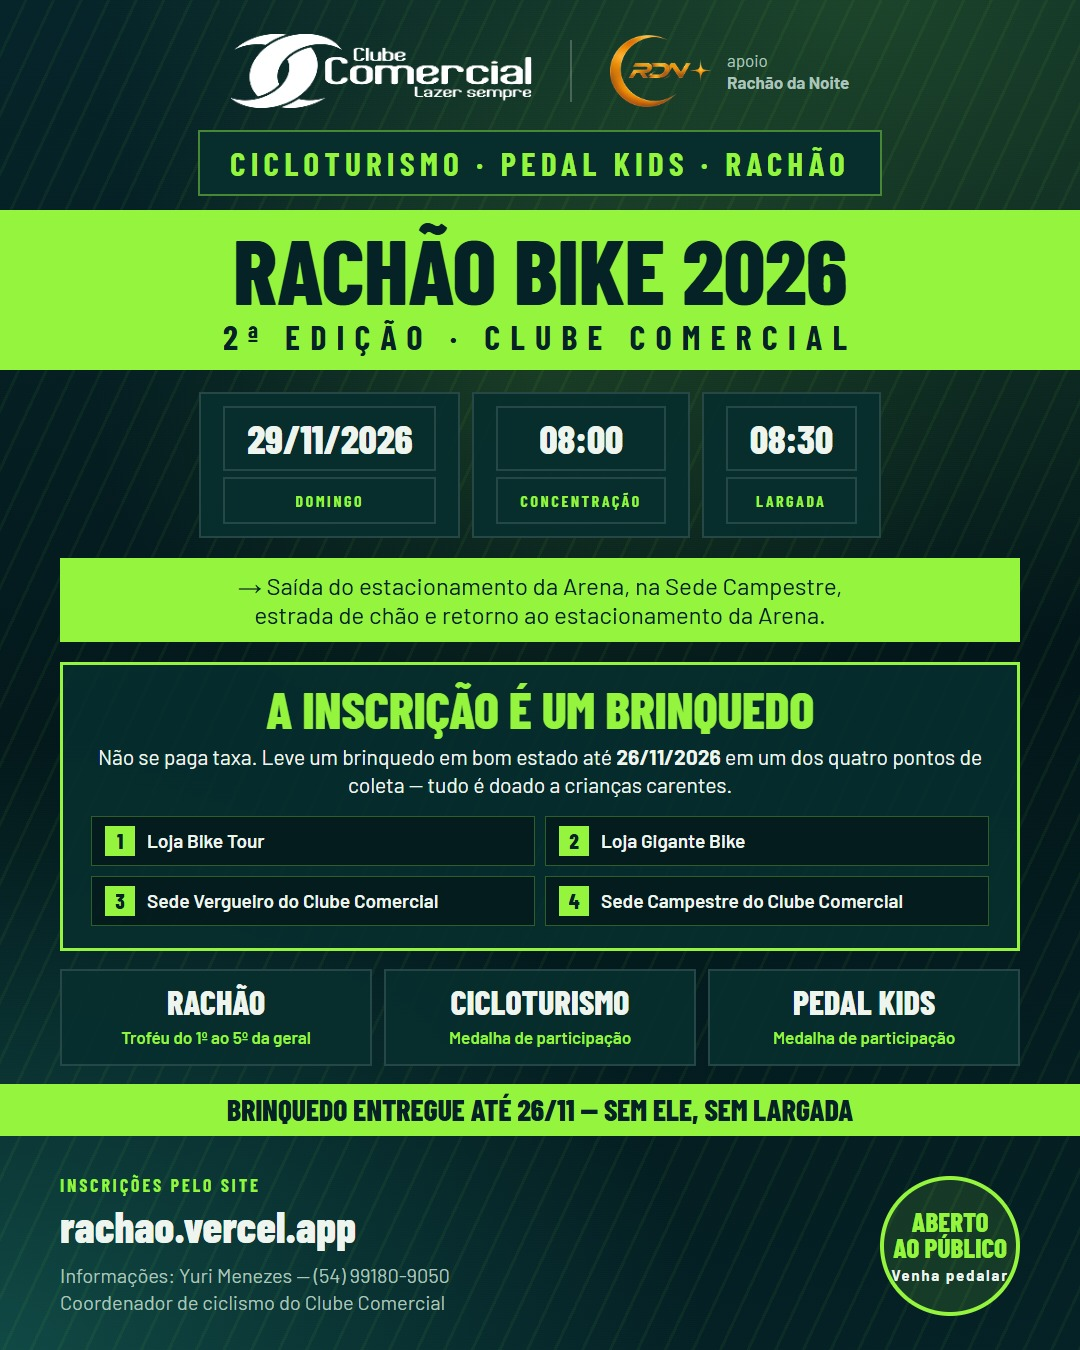
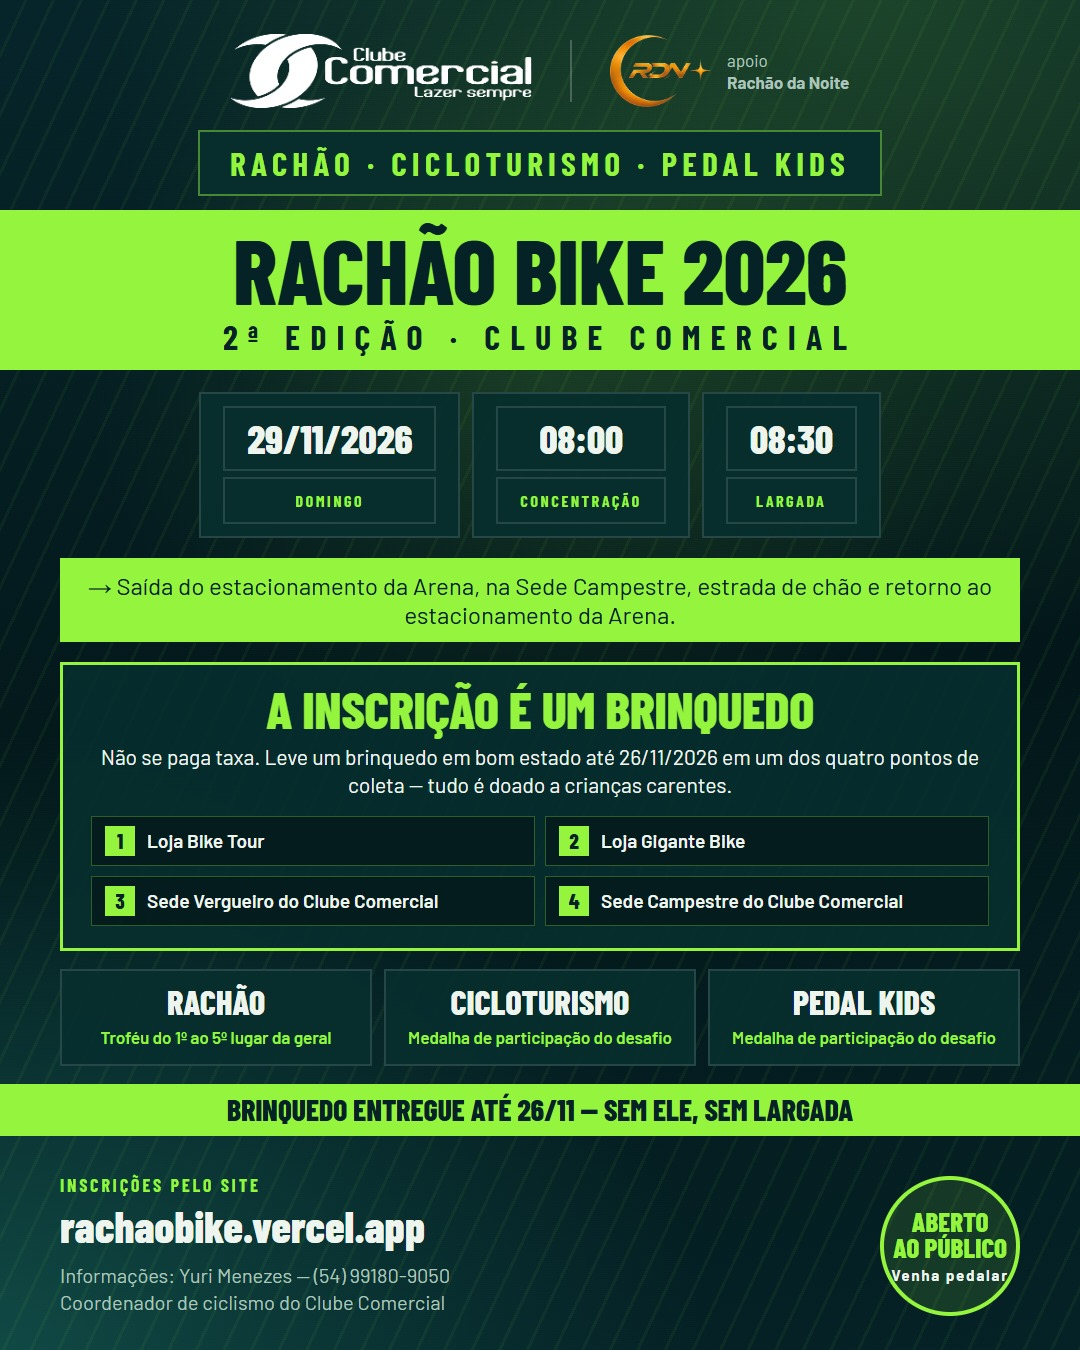
O flyer passa a ler os dados do mesmo arquivo que o site
O texto da peça estava escrito à mão no HTML. Bastava alguém corrigir o
horário em lib/evento.ts para a página dizer uma coisa e o flyer que
circula no grupo dizer outra — e o flyer é o que as pessoas guardam.

Agora o gerador preenche cada marcador a partir de lib/evento.ts e
reclama se algum ficar sem valor, em vez de deixar o texto velho passar.
Os quatro pontos de coleta e as três modalidades também vêm de lá.

De quebra, o endereço do site: "rachao.vercel.app" já é de outra pessoa
na Vercel, conferido hoje — responde um projeto chamado rachao-manager.
O escolhido foi rachaobike.vercel.app, o mais curto entre os livres.

diff --git a/scripts/flyer/peca.html b/scripts/flyer/peca.html
@@ -370,77 +370,63 @@
         <div class="apoio">
           <img class="rdn" src="logo-rdn.png" alt="Rachão da Noite" />
           <span>
-            apoio<br /><strong>Rachão da Noite</strong>
+            apoio<br /><strong data-de="apoio">Rachão da Noite</strong>
           </span>
         </div>
       </div>
 
-      <div class="faixa-escura rotulo">Cicloturismo · Pedal Kids · Rachão</div>
+      <div class="faixa-escura rotulo" data-de="modalidades">
+        Cicloturismo · Pedal Kids · Rachão
+      </div>
 
       <div class="faixa-limao titulo">
-        Rachão Bike 2026
-        <small>2ª edição · Clube Comercial</small>
+        <span data-de="nome">Rachão Bike 2026</span>
+        <small data-de="edicao">2ª edição · Clube Comercial</small>
       </div>
 
       <div class="quando">
         <div>
-          <div class="valor titulo">29/11/2026</div>
-          <div class="nota rotulo">Domingo</div>
+          <div class="valor titulo" data-de="data">29/11/2026</div>
+          <div class="nota rotulo" data-de="diaSemana">Domingo</div>
         </div>
         <div>
-          <div class="valor titulo">08:00</div>
+          <div class="valor titulo" data-de="concentracao">08:00</div>
           <div class="nota rotulo">Concentração</div>
         </div>
         <div>
-          <div class="valor titulo">08:30</div>
+          <div class="valor titulo" data-de="largada">08:30</div>
           <div class="nota rotulo">Largada</div>
         </div>
       </div>
 
-      <div class="trajeto">
-        → Saída do estacionamento da Arena, na Sede Campestre,<br />
-        estrada de chão e retorno ao estacionamento da Arena.
+      <div class="trajeto" data-de="percurso">
+        → Saída do estacionamento da Arena, na Sede Campestre, estrada de chão
+        e retorno ao estacionamento da Arena.
       </div>
 
       <div class="causa">
         <div class="chamada titulo">A inscrição é um brinquedo</div>
-        <p>
-          Não se paga taxa. Leve um brinquedo em bom estado até
-          <strong>26/11/2026</strong> em um dos quatro pontos de coleta — tudo
-          é doado a crianças carentes.
+        <p data-de="chamada">
+          Não se paga taxa. Leve um brinquedo em bom estado até 26/11/2026 em um
+          dos quatro pontos de coleta — tudo é doado a crianças carentes.
         </p>
-        <div class="pontos">
-          <div><span>1</span>Loja Bike Tour</div>
-          <div><span>2</span>Loja Gigante Bike</div>
-          <div><span>3</span>Sede Vergueiro do Clube Comercial</div>
-          <div><span>4</span>Sede Campestre do Clube Comercial</div>
-        </div>
+        <div class="pontos" data-lista="pontos"></div>
       </div>
 
-      <div class="modalidades">
-        <article>
-          <h3>Rachão</h3>
-          <p>Troféu do 1º ao 5º da geral</p>
-        </article>
-        <article>
-          <h3>Cicloturismo</h3>
-          <p>Medalha de participação</p>
-        </article>
-        <article>
-          <h3>Pedal Kids</h3>
-          <p>Medalha de participação</p>
-        </article>
-      </div>
+      <div class="modalidades" data-lista="categorias"></div>
 
-      <div class="prazo titulo">Brinquedo entregue até 26/11 — sem ele, sem largada</div>
+      <div class="prazo titulo" data-de="prazo">
+        Brinquedo entregue até 26/11 — sem ele, sem largada
+      </div>
 
       <div class="rodape">
         <div class="inscricao">
           <div class="rotulo">Inscrições pelo site</div>
-          <div class="endereco">rachao.vercel.app</div>
+          <div class="endereco" data-de="site">rachaobike.vercel.app</div>
           <div class="contato">
-            Informações: Yuri Menezes — (54) 99180-9050<br />
-            Coordenador de ciclismo do Clube Comercial
+            Informações: <span data-de="coordenador">Yuri Menezes</span> —
+            <span data-de="telefone">(54) 99180-9050</span><br />
+            <span data-de="cargo">Coordenador de ciclismo do Clube Comercial</span>
           </div>
         </div>
         <div class="selo">

diff --git a/lib/evento.ts b/lib/evento.ts
@@ -23,7 +23,7 @@ export const EVENTO = {
   cidade: "Passo Fundo",
   estado: "RS",
   percurso:
-    "Saída do estacionamento da Arena, estrada de chão e retorno ao estacionamento da Arena.",
+    "Saída do estacionamento da Arena, na Sede Campestre, estrada de chão e retorno ao estacionamento da Arena.",
 
   /** O que substitui a taxa de inscrição. */
   custo: "1 brinquedo",
@@ -38,8 +38,17 @@ export const EVENTO = {
   /** Só dígitos, com 55 na frente — é o formato que o wa.me exige. */
   whatsapp: "5554991809050",
 
-  /** Endereço público, usado na miniatura que o WhatsApp mostra. */
-  site: "https://rachao.vercel.app",
+  /**
+   * Endereço público, usado na miniatura que o WhatsApp mostra e impresso no
+   * flyer.
+   *
+   * Não é "rachao.vercel.app" porque esse nome já é de outra pessoa na
+   * Vercel — conferido em 04/11/2026. Mudou de endereço? Mude aqui, e rode
+   * `npm run flyer` para a peça sair com o novo.
+   */
+  site: "https://rachaobike.vercel.app",
+  /** O mesmo endereço sem o https, que é como ele aparece no flyer. */
+  siteCurto: "rachaobike.vercel.app",
 } as const;
 
 /**

diff --git a/PUBLICAR.md b/PUBLICAR.md
@@ -1,0 +1,86 @@
+# Para o site entrar no ar
+
+Três passos. Os dois primeiros são só seus — eu não tenho como fazer login
+nas suas contas. Depois do terceiro o endereço existe.
+
+## 1. Despausar o banco (2 minutos)
+
+O projeto Supabase está pausado por inatividade e por isso o endereço
+`lodkeavnopebxluztwlo.supabase.co` nem aparece no DNS. Enquanto ele estiver
+assim, nenhuma inscrição grava.
+
+1. Entre em <https://supabase.com/dashboard> e abra o projeto.
+2. Clique em **Restore project** e espere subir (costuma levar 2 a 5 minutos).
+3. Abra **SQL Editor**, cole o conteúdo de [`supabase/schema.sql`](supabase/schema.sql)
+   e rode. Isso cria a tabela `inscricoes_rachao`, separada da tabela do MTB.
+4. Me avise: eu rodo `node scripts/sondar.mjs` e confirmo que o banco respondeu.
+
+> O plano gratuito pausa de novo depois de cerca de uma semana **sem nenhum
+> acesso ao banco**. Entre hoje e 29/11 vai ter inscrição entrando quase todo
+> dia, então ele não deve pausar sozinho. Mas **depois da prova ele pausa** — e
+> o painel e o relatório param junto. Baixe o Excel antes de guardar o evento.
+
+## 2. Criar o repositório (1 minuto)
+
+Em <https://github.com/new>, logado como **mtbpassofundo-hue**:
+
+- **Repository name:** `rachao`
+- **Private** ou **Public**, como preferir
+- **Não** marque "Add a README" — o repositório daqui já tem um
+
+Depois é só me avisar; o `git remote` local já aponta para lá e o envio é um
+comando só.
+
+## 3. Publicar na Vercel
+
+Rode uma vez, no terminal:
+
+```
+vercel login
+```
+
+Ele abre o navegador para confirmar. Feito isso, me avise que eu publico com o
+nome `rachaobike` — é o nome do projeto na Vercel que dá o endereço
+**rachaobike.vercel.app**.
+
+Se preferir fazer pela interface: <https://vercel.com/new>, importe o repo
+`rachao`, e no campo **Project Name** escreva exatamente `rachaobike`.
+
+### As quatro variáveis de ambiente
+
+Na Vercel, em **Settings → Environment Variables**, marcando Production,
+Preview e Development nas quatro. Os valores estão no `.env.local` desta
+pasta — abra o arquivo e copie de lá, não digite de cabeça:
+
+| Nome | De onde vem |
+| --- | --- |
+| `NEXT_PUBLIC_SUPABASE_URL` | Supabase → Project Settings → API → Project URL |
+| `SUPABASE_SERVICE_ROLE_KEY` | Supabase → Project Settings → API → `service_role` |
+| `SENHA_PAINEL` | A senha de `/painel`. Está no `.env.local`. |
+| `SESSAO_SEGREDO` | Já sorteado no `.env.local`. Não precisa ser igual ao do MTB. |
+
+Sem elas o site sobe, mas quebra na primeira inscrição.
+
+---
+
+## Sobre o endereço
+
+O nome do projeto na **Vercel** é o que vira o endereço. O **Supabase** não
+tem nada a ver com isso — ele é só o banco, atrás do site. Dá para usar o
+mesmo projeto Supabase do MTB Passo Fundo e ainda assim o endereço ser
+`rachao.vercel.app`, porque são serviços diferentes.
+
+**`rachao.vercel.app` não dá:** o nome já é de outra pessoa, um projeto
+chamado "rachao-manager". Conferi em 04/11/2026 — o endereço responde, e a
+Vercel não deixa dois projetos com o mesmo nome.
+
+Estes quatro estavam livres na mesma data:
+
+| Endereço | Comentário |
+| --- | --- |
+| `rachaobike.vercel.app` | O mais curto dos livres e o mais fácil de ditar no telefone. |
+| `rachaobike2026.vercel.app` | Deixa o ano claro, mas envelhece na próxima edição. |
+| `rachao-comercial.vercel.app` | Amarra no clube; o hífen atrapalha um pouco na fala. |
+| `rachaobikepf.vercel.app` | Fecha com Passo Fundo. |
+
+Nome livre hoje pode não estar livre semana que vem, então vale decidir logo.
